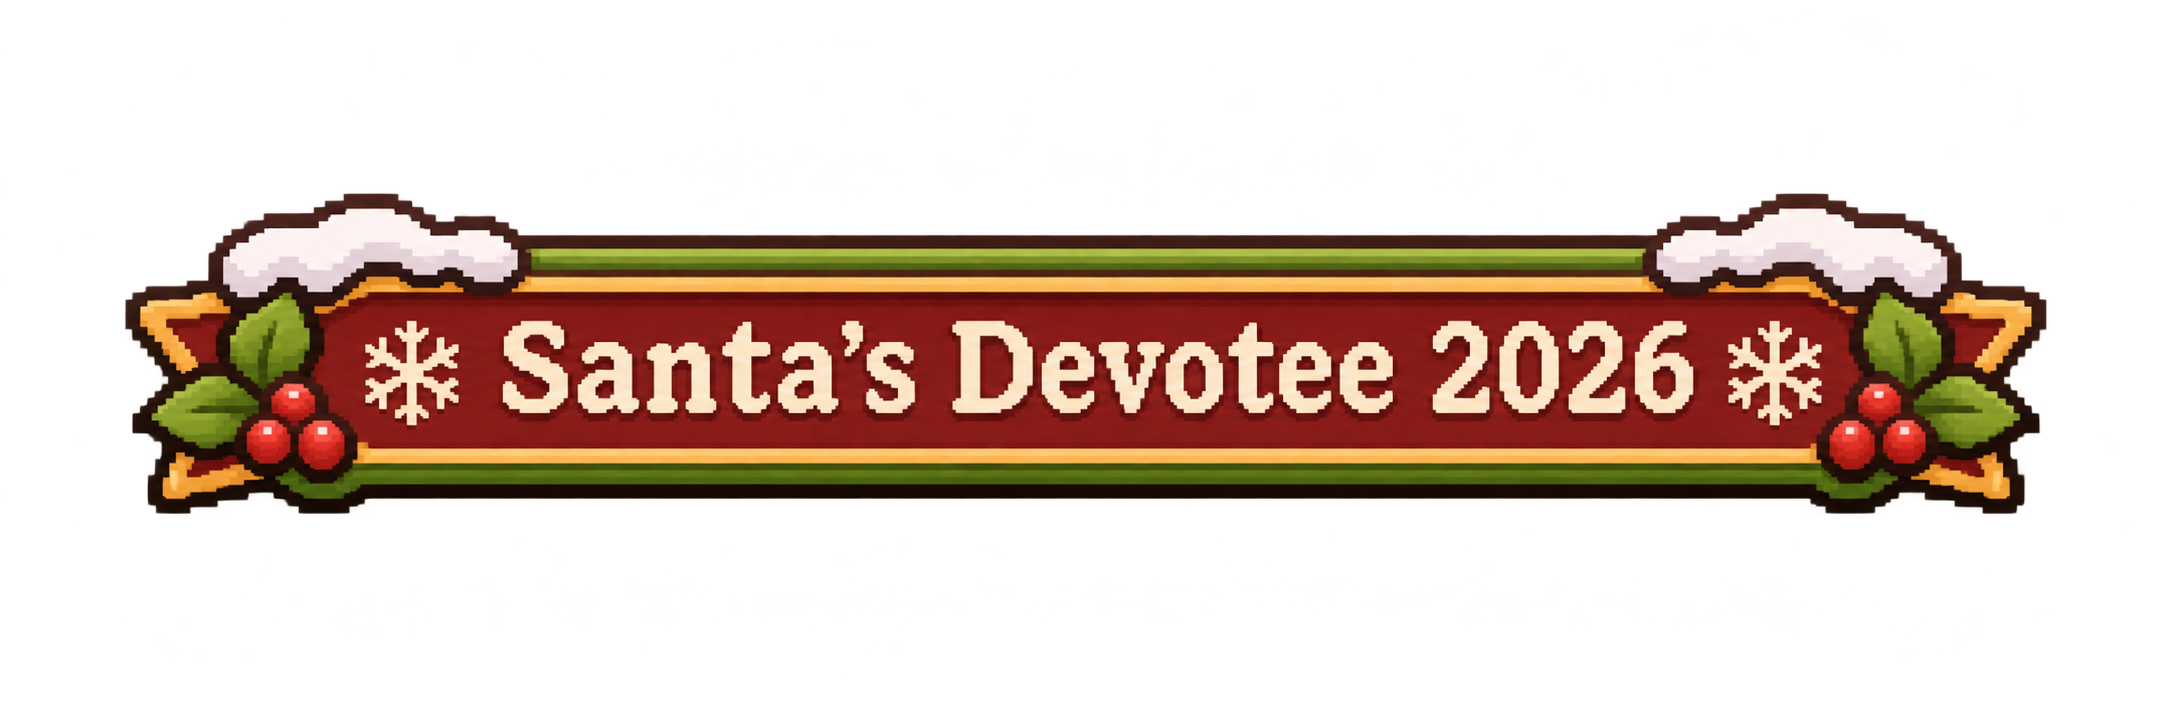
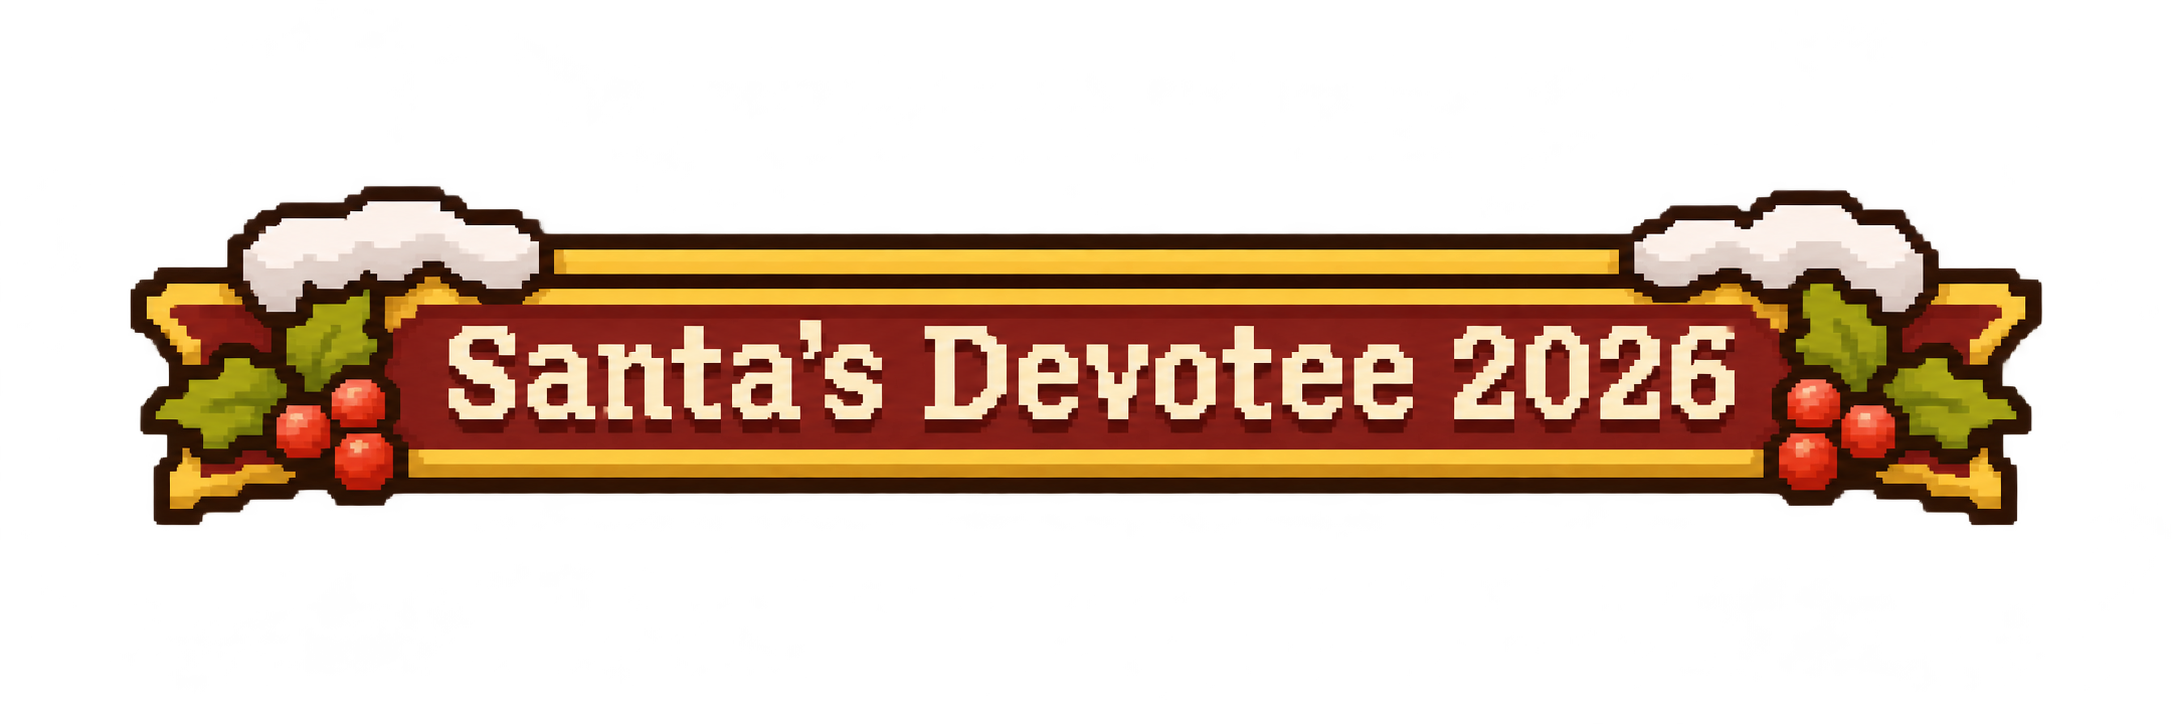
Use updated title PNGs without altering source pixels

Changed region(s): [[0.0617, 0.2431, 0.9563, 0.7293]]

diff --git a/src/assets/journal/index.ts b/src/assets/journal/index.ts
@@ -7,8 +7,8 @@ import journalCropsBookmark from './journalCropsBookmark.png';
 import journalMilestonesBookmark from './journalMilestonesBookmark.png';
 import masterCollectorRibbon from './masterCollectorRibbon.png';
 import masterCollectorWorldRibbon from './masterCollectorWorldRibbon.png';
-import goldenCollectorRibbon from './goldenCollectorRibbon.png';
-import christmasDevoteeRibbon from './christmasDevoteeRibbon.png';
+import goldenCollectorRibbon from './source/golden-title-source.png';
+import christmasDevoteeRibbon from './source/christmas-title-source.png';
 
 /** Approved PNG files, not code-drawn sprites. Originals are kept in source/. */
 export const JOURNAL_IMAGES = {
@@ -17,6 +17,11 @@ export const JOURNAL_IMAGES = {
   goldenCollectorRibbon, christmasDevoteeRibbon,
 } as const;
 export type JournalImageName = keyof typeof JOURNAL_IMAGES;
+/** Texture frames skip surrounding padding; the supplied PNG bytes stay untouched. */
+export const JOURNAL_IMAGE_FRAMES: Partial<Record<JournalImageName, { x: number; y: number; width: number; height: number }>> = {
+  goldenCollectorRibbon: { x: 48, y: 180, width: 2074, height: 343 },
+  christmasDevoteeRibbon: { x: 131, y: 186, width: 1911, height: 339 },
+};
 /** Keep the lettering in full-resolution PNGs; size only their display. */
 export const JOURNAL_DISPLAY_WIDTHS: Partial<Record<JournalImageName, number>> = {
   goldenCollectorRibbon: 192, christmasDevoteeRibbon: 192,

diff --git a/src/scenes/BootScene.ts b/src/scenes/BootScene.ts
@@ -1,5 +1,5 @@
 import Phaser from 'phaser';
-import { JOURNAL_IMAGES, journalImageKey, type JournalImageName } from '../assets/journal';
+import { JOURNAL_IMAGES, JOURNAL_IMAGE_FRAMES, journalImageKey, type JournalImageName } from '../assets/journal';
 import { DRAWN_ART } from '../art/drawnArt';
 import { spriteSize } from '../art/pixelSprite';
 import { ART_NAMES, isArtName, SPRITE_ART } from '../art/spriteArt';
@@ -31,6 +31,10 @@ export class BootScene extends Phaser.Scene {
   }
 
   create(): void {
+    for (const name of Object.keys(JOURNAL_IMAGE_FRAMES) as JournalImageName[]) {
+      const frame = JOURNAL_IMAGE_FRAMES[name]!;
+      this.textures.get(journalImageKey(name)).add('ribbon', 0, frame.x, frame.y, frame.width, frame.height);
+    }
     // These full-resolution ribbons include approved lettering. Smooth only
     // their downscaling; critters, tiles and the rest of the pixel art stay crisp.
     for (const name of ['goldenCollectorRibbon', 'christmasDevoteeRibbon', 'masterCollectorRibbon', 'masterCollectorWorldRibbon'] as const) {

diff --git a/src/ui/journalImage.ts b/src/ui/journalImage.ts
@@ -1,5 +1,5 @@
 import type Phaser from 'phaser';
-import { JOURNAL_DISPLAY_WIDTHS, journalImageKey, type JournalImageName } from '../assets/journal';
+import { JOURNAL_DISPLAY_WIDTHS, JOURNAL_IMAGE_FRAMES, journalImageKey, type JournalImageName } from '../assets/journal';
 
 /** Direct image loading keeps the approved PNG's colours and transparency. */
 export function addJournalImage(scene: Phaser.Scene, x: number, y: number, name: JournalImageName): Phaser.GameObjects.Image {
@@ -7,7 +7,7 @@ export function addJournalImage(scene: Phaser.Scene, x: number, y: number, name:
 }
 
 export function setJournalImage(image: Phaser.GameObjects.Image, name: JournalImageName, displayWidth?: number): Phaser.GameObjects.Image {
-  image.setTexture(journalImageKey(name));
+  image.setTexture(journalImageKey(name), JOURNAL_IMAGE_FRAMES[name] ? 'ribbon' : undefined);
   const width = displayWidth ?? JOURNAL_DISPLAY_WIDTHS[name] ?? image.width;
   return image.setDisplaySize(width, image.height * width / image.width);
 }
